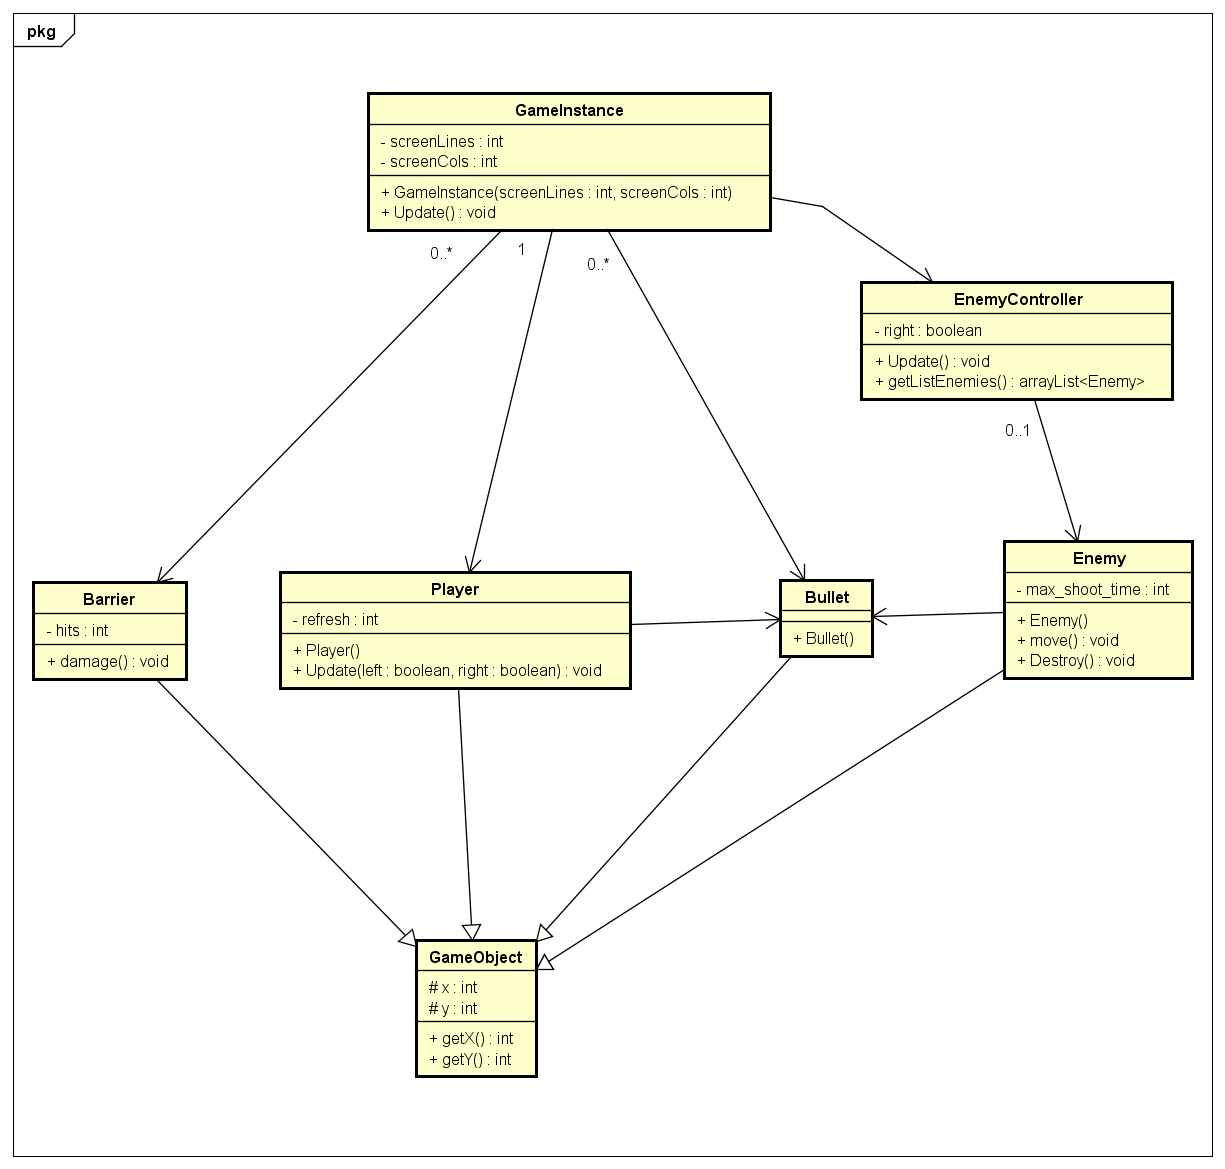
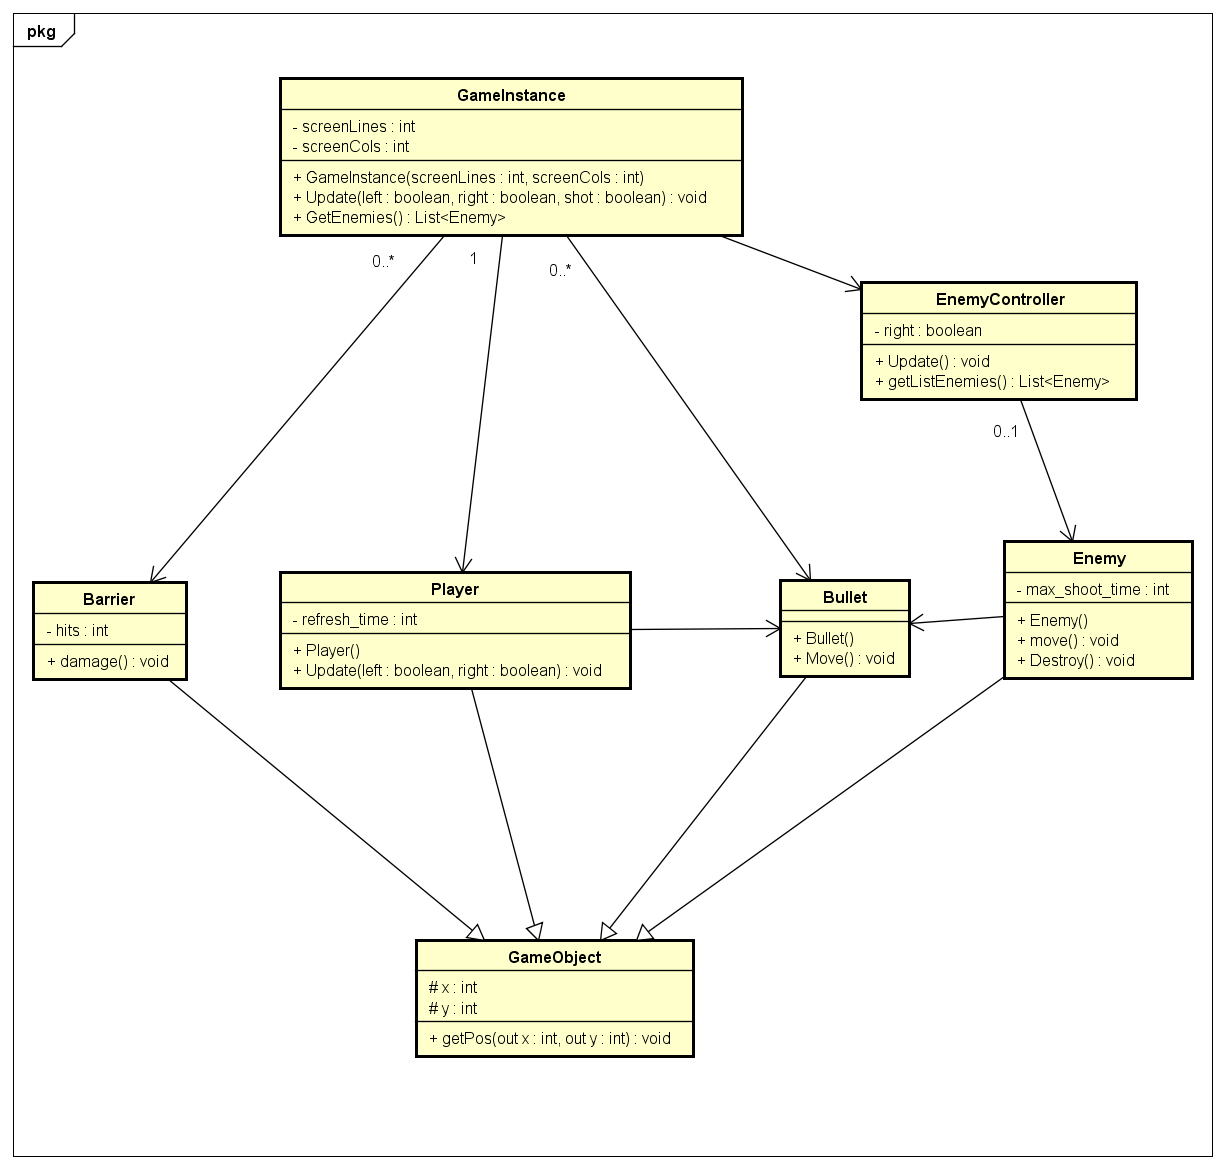
Implementing GameInstance Update() Updated Class Diagram on Astah

diff --git a/space_invaders/GameInstance.cs b/space_invaders/GameInstance.cs
@@ -1,5 +1,6 @@
 using System;
 using System.Collections.Generic;
+using System.Collections;
 using System.Linq;
 using System.Text;
 using System.Threading.Tasks;
@@ -10,15 +11,49 @@ namespace space_invaders
     {
         private int screenLines;
         private int screenCols;
-        
+        private EnemyController EnemySystem;
+        private List<Enemy> Enemies;
+        private Player player;
+
+
         public GameInstance(int screenLines, int screenCols)
         {
             this.screenLines = screenLines;
             this.screenCols = screenCols;
+            EnemySystem = new EnemyController(5, this.screenCols, this.screenLines, 4);
+            player = new Player();
+        }
+
+        public void Update(bool Left, bool Right, bool shoot)
+        {
+            EnemySystem.Update();
+            Enemies = EnemySystem.GetEnemies();
+        }
+
+        public List<Enemy> GetEnemies()
+        {
+            return this.Enemies;
         }
     }
 
-    class Enemy
+    class GameObject
+    {
+        protected int x;
+        protected int y;
+
+        public void GetPos(out int x, out int y)
+        {
+            x = this.x;
+            y = this.y;
+        }
+    }
+
+    class Player : GameObject
+    {
+        
+    }
+     
+    class Enemy: GameObject
     {
         private int x;
         private int y;
@@ -45,11 +80,7 @@ namespace space_invaders
                 Shoot();
         }
 
-        public void GetPos(out int _x, out int _y)
-        {
-            _x = x;
-            _y = y;
-        }
+        
 
         private void Shoot()
         {
@@ -95,7 +126,7 @@ namespace space_invaders
             }
         }
 
-        public void update()
+        public void Update()
         {
             foreach (Enemy e in Enemies)
             {
@@ -126,6 +157,11 @@ namespace space_invaders
             }
 
             down = false;
+        }
+
+        public List<Enemy> GetEnemies()
+        {
+            return this.Enemies;
         }
     }
 }
